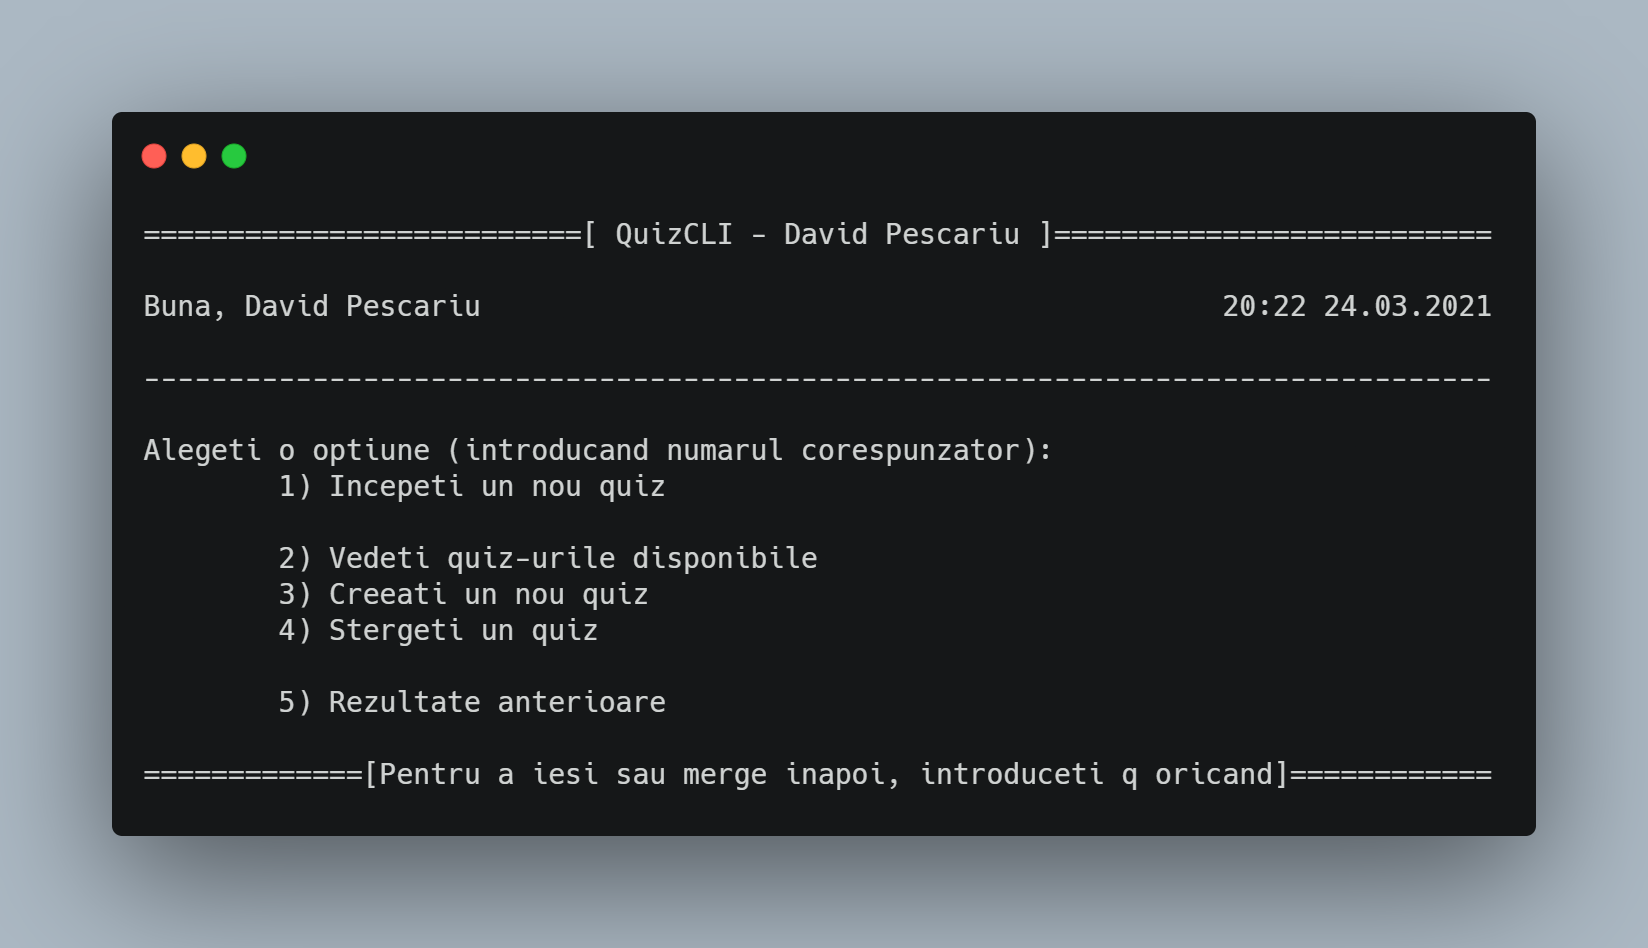
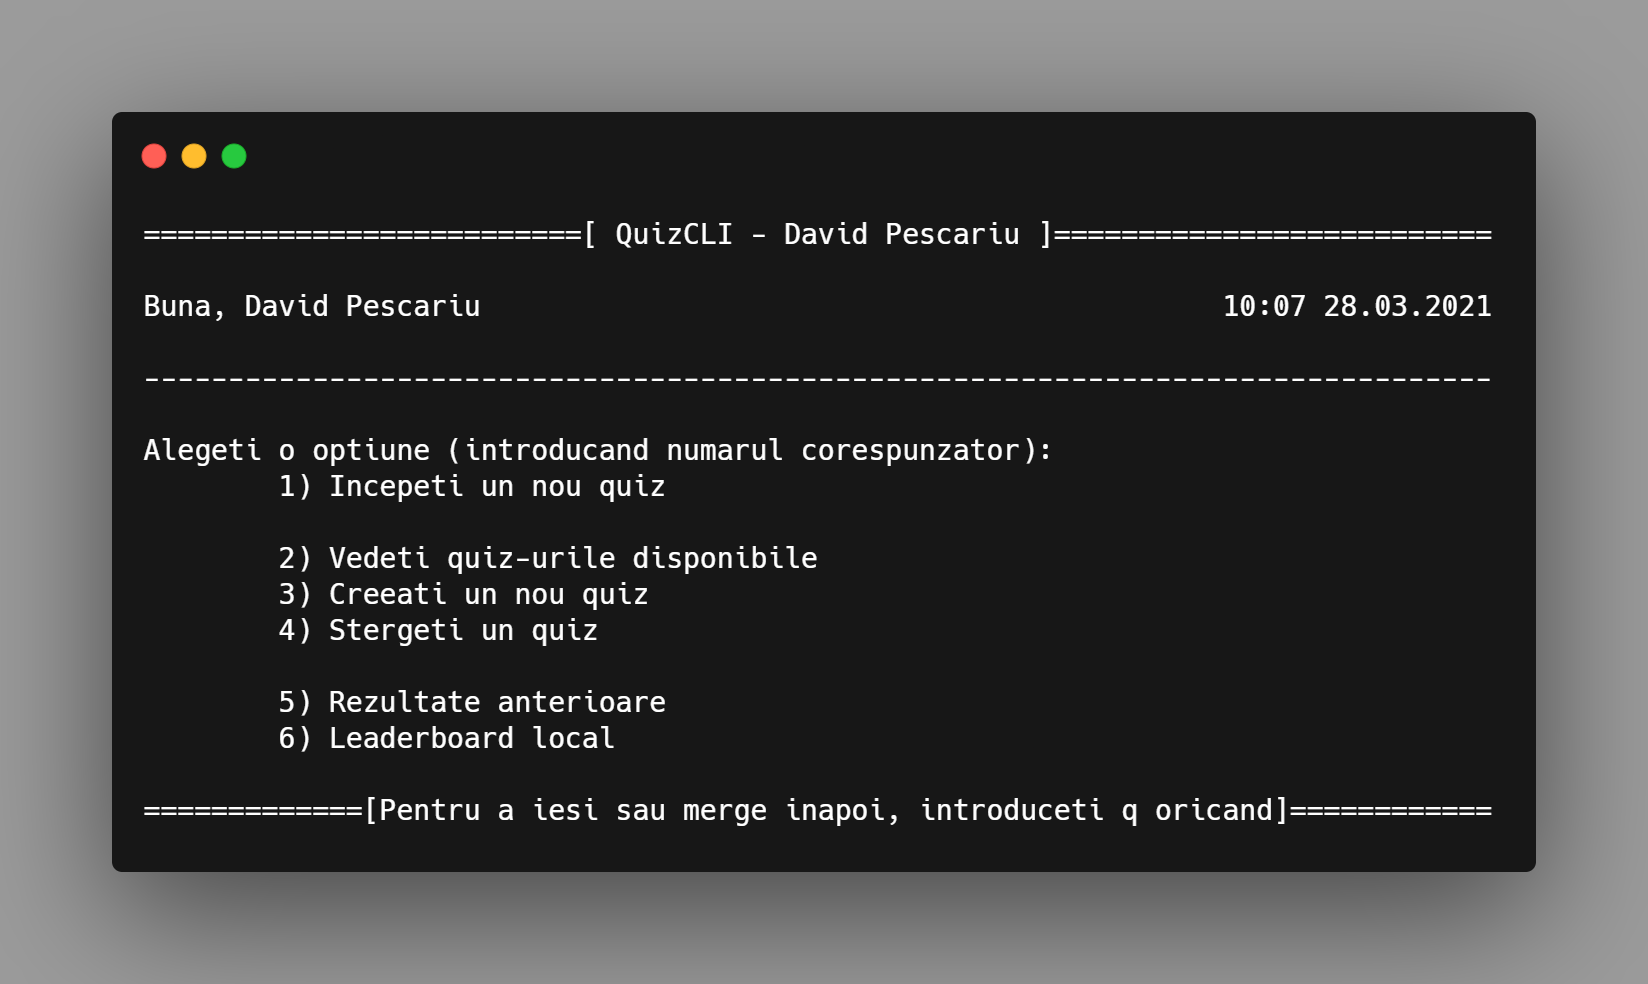
Leaderboard done

diff --git a/main.cpp b/main.cpp
@@ -13,10 +13,10 @@
  *      Subiect intrebare, nr_raspunsuri, raspuns1, !raspuns2, raspuns3, raspuns4
  *  Fiecare quiz se termina cu END_QUIZ
  * 
- * Compilare / Compile
+ * Compilare
  * ---------------------
- *  V Compilator  V Linkuim source-file-urile                                                                                                                                                      Toate Warning-urile V   V Output
- *  g++ main.cpp -I data/ data/reader_writter.cpp -I models/ models/answer.cpp -I models/ models/question.cpp -I ui/ ui/tui.cpp -I services/ services/quiz_service.cpp -I services/ services/statistics_service.cpp -Wall -o quizzes.exe
+ * Din folderul cli_quizzes rulati (Command Prompt / PS):
+ *  mingw32-make.exe SAU make
  */
 
 #include "data/reader_writter.h"
@@ -73,6 +73,8 @@ int main() {
 
         int category = 0;
         int selection = 0;
+        PreviousResult results[MAX_PREVIOUS_RESULTS];
+        unsigned short number_of_results;
 
         switch (atoi(option)) {
             case 1:
@@ -133,12 +135,9 @@ int main() {
                 }
                 break;
             case 5:
-                // Leaderboard local
+                // Rezultate anterioare
                 ui::reset();
                 std::cout << "Se incarca...\n";
-
-                PreviousResult results[MAX_PREVIOUS_RESULTS];
-                unsigned short number_of_results;
 
                 if (read_statistics(results, number_of_results) == -1) {
                     ui::reset();
@@ -153,7 +152,32 @@ int main() {
                     break;
                 }
 
-                if (ui::show_reports(results, number_of_results) == 99) {
+                if (ui::show_reports(results, number_of_results, "Rezultate anterioare") == 99) {
+                    delete_statistics();
+                }
+
+                break;
+            case 6:
+                // Leaderboard local
+                ui::reset();
+                std::cout << "Se incarca...\n";
+
+                if (read_statistics(results, number_of_results) == -1) {
+                    ui::reset();
+                    std::cout << "Whoops! Ceva nu a mers bine! (Nu s-a putut citi statistics_service.data)\n";
+                    return EXIT_FAILURE;
+                };
+
+                if (number_of_results == 0) {
+                    ui::reset();
+                    std::cout << "Nu sunt disponibile rapoarte anterioare\n";
+                    Sleep(1500);
+                    break;
+                }
+
+                sort_results_by_score(results, number_of_results);
+
+                if (ui::show_reports(results, number_of_results, "Leaderboard") == 99) {
                     delete_statistics();
                 }
 

diff --git a/services/statistics_service.cpp b/services/statistics_service.cpp
@@ -42,6 +42,8 @@ int read_statistics(PreviousResult results[MAX_PREVIOUS_RESULTS], unsigned short
                     break;
                 case 4:
                     strcpy(results[i].score, ptr);
+                    strtok(ptr, "%"); // In ptr va ramane doar valoarea ca numar
+                    results[i].i_score = atoi(ptr);
                     ++step;  // Nu mai e folosit
                     ++i;
                     ++n;
@@ -68,4 +70,20 @@ void write_statistic(char username[], char quiz_name[], char time_date[], char s
 void delete_statistics() {
     std::ofstream fout("quiz_uri/statistics.data");
     fout.close();
+}
+
+void swap(PreviousResult &r1, PreviousResult &r2) {
+    PreviousResult temp = r1;
+    r1 = r2;
+    r2 = temp;
+}
+
+void sort_results_by_score(PreviousResult results[], unsigned short n) {
+    for (unsigned short i = 0; i < n - 1; ++i) {
+        for (unsigned short index = 0; index < n - i - 1; ++index) {
+            if (results[index].i_score < results[index + 1].i_score) {
+                swap(results[index], results[index + 1]);
+            }
+        }
+    }
 }

diff --git a/ui/tui.cpp b/ui/tui.cpp
@@ -117,10 +117,10 @@ void ui::show_quiz_question(Quiz quiz, User user, unsigned short question_index,
     ui::put_footer();
 }
 
-int ui::show_reports(PreviousResult results[], unsigned short number_of_reports) {
+int ui::show_reports(PreviousResult results[], unsigned short number_of_reports, const char title[]) {
     ui::reset();
     ui::put_header();
-    std::cout << "Rezultate anterioare:\n";
+    std::cout << title << "\n";
 
     std::cout << "\n" << ui::separator << "\n\n";
 
@@ -168,7 +168,8 @@ void ui::main_menu(User user) {
               << "\t2) Vedeti quiz-urile disponibile\n"
               << "\t3) Creeati un nou quiz\n"
               << "\t4) Stergeti un quiz\n\n"
-              << "\t5) Rezultate anterioare\n";
+              << "\t5) Rezultate anterioare\n"
+              << "\t6) Leaderboard local\n";
     ui::put_footer();
 }
 

diff --git a/ui/tui.h b/ui/tui.h
@@ -100,7 +100,15 @@ int create_answer(Answer &a, unsigned short answer_number);
 
 // Statistici
 
-int show_reports(PreviousResult results[], unsigned short number_of_reports);
+/**
+ * @brief Afiseaza statistici - rezultate anterioare / leaderboard
+ * 
+ * @param results array cu rezultatele ce vor fi afisate
+ * @param number_of_reports cate rezultate sunt
+ * @param title titlul afisat pe ecran
+ * @return status code: -1: exit | 0: success | 99: sterge datele
+ */
+int show_reports(PreviousResult results[], unsigned short number_of_reports, const char title[]);
 
 // General
 

diff --git a/services/statistics_service.h b/services/statistics_service.h
@@ -36,4 +36,12 @@ void write_statistic(char username[], char quiz_name[], char time_date[], char s
  */
 void delete_statistics();
 
+/**
+ * @brief Sorteaza (descrescator dupa scor) rezultatele
+ * 
+ * @param results rezultatele anterioare
+ * @param n cate rezultate sunt
+ */
+void sort_results_by_score(PreviousResult results[], unsigned short n);
+
 #endif

diff --git a/models/result.h b/models/result.h
@@ -13,6 +13,7 @@ struct PreviousResult {
     char quiz_name[256];
     char time_date[256];
     char score[16];
+    int i_score = -1;
 };
 
 #endif
